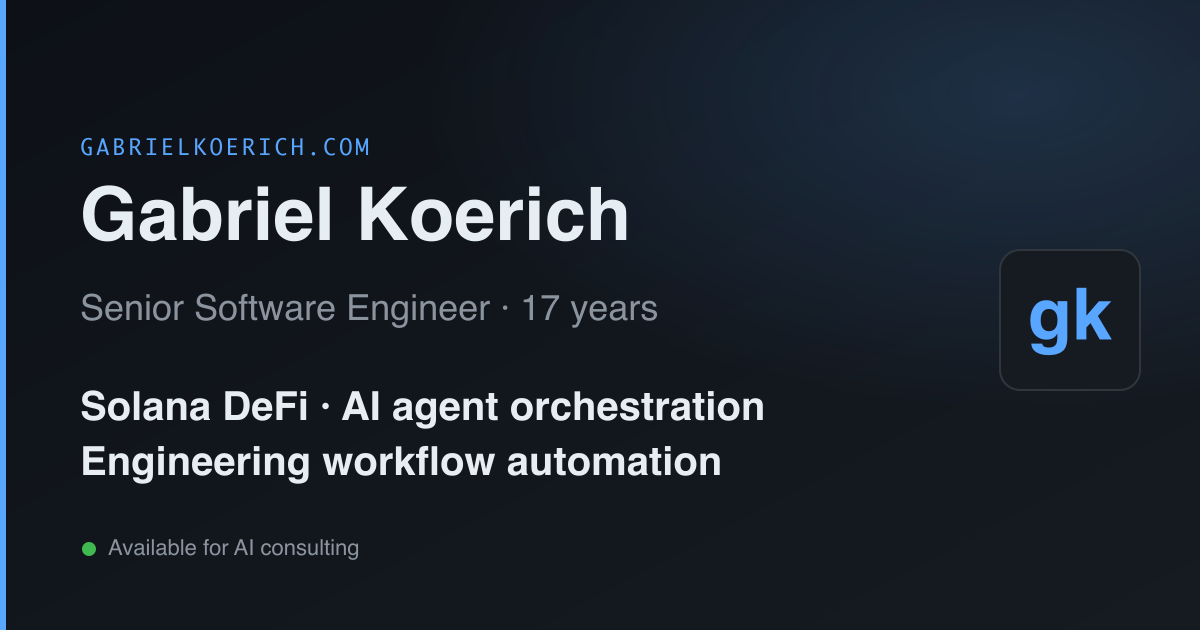
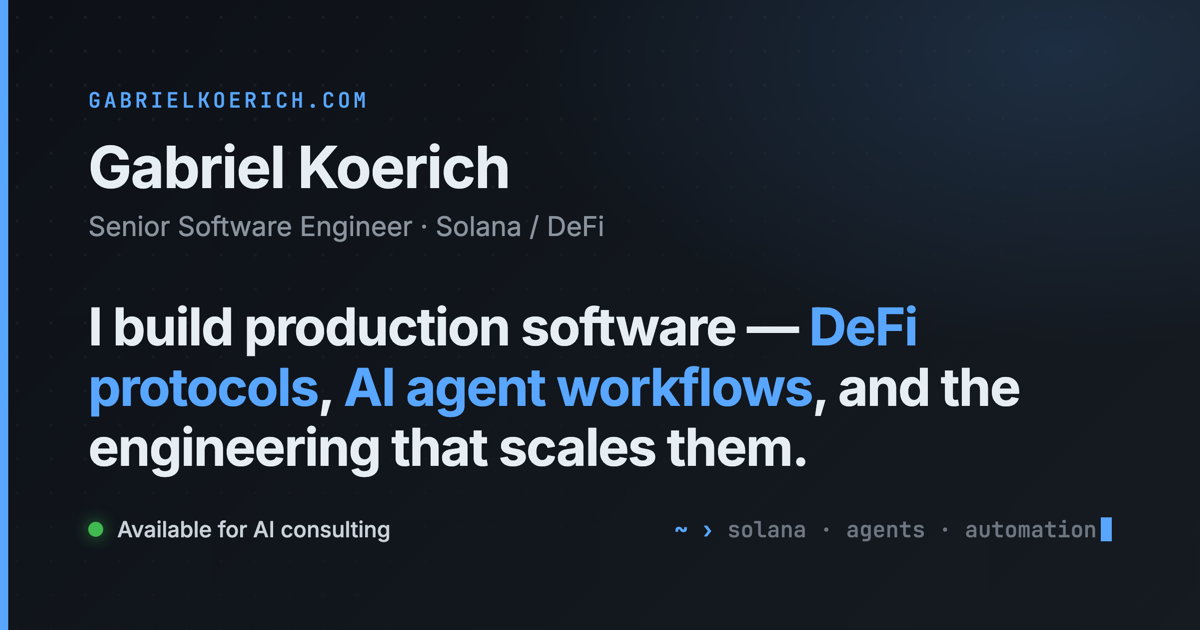
Update site visuals, OG image, and contact info
Switch primary contact email to gabriel@gabrielkoerich.com across site, clear hidden_repos, and add a generated OG HTML image (scripts/og-image.html). Remove SVG favicon/OG assets and replace with updated PNG. Refresh typography and layout in sass/main.scss (add display font, dot-grid backdrop, container width, heading/hero/font tweaks, spacing and footer alignment). Content updates: add Quant stack and family/off-screen notes (now.md, index.html) and update contact lines in profile and CV files. Minor template tweaks: update Google Fonts include and comment out a footer promo link.

diff --git a/sass/main.scss b/sass/main.scss
@@ -7,6 +7,7 @@
     --accent-color: #58a6ff;
     --border-color: #30363d;
     --font-main: 'Inter', -apple-system, BlinkMacSystemFont, 'Segoe UI', Roboto, sans-serif;
+    --font-display: 'Fraunces', 'Source Serif Pro', Georgia, serif;
     --font-serif: 'Source Serif Pro', Georgia, Cambria, "Times New Roman", Times, serif;
     --font-mono: 'SF Mono', Monaco, 'Cascadia Code', 'Roboto Mono', Consolas, 'Courier New', monospace;
 }
@@ -33,17 +34,32 @@ body {
     -moz-osx-font-smoothing: grayscale;
 }
 
+/* Atmospheric backdrop: faint dot-grid + top accent glow */
+body::before {
+    content: "";
+    position: fixed;
+    inset: 0;
+    z-index: -1;
+    pointer-events: none;
+    background:
+        radial-gradient(800px 420px at 80% -8%, rgba(88, 166, 255, 0.10), transparent 60%),
+        radial-gradient(rgba(139, 148, 158, 0.06) 1px, transparent 1px);
+    background-size: auto, 32px 32px;
+}
+
 /* Container - Medium-inspired width */
 #container {
-    max-width: 800px;
+    max-width: 880px;
     margin: 0 auto;
     padding: 4rem 2rem;
 }
 
 /* Typography */
 h1, h2, h3, h4, h5, h6 {
+    font-family: var(--font-display);
     font-weight: 600;
     line-height: 1.3;
+    letter-spacing: -0.01em;
     margin: 2rem 0 1rem;
     color: var(--text-color);
 }
@@ -56,8 +72,6 @@ h1 {
 h2 {
     font-size: 1.35rem;
     margin-top: 3rem;
-    padding-bottom: 0.5rem;
-    border-bottom: 1px solid var(--border-color);
 }
 
 .section-heading-inline {
@@ -65,9 +79,7 @@ h2 {
     align-items: baseline;
     justify-content: space-between;
     gap: 1rem;
-    border-bottom: 1px solid var(--border-color);
     margin-top: 3rem;
-    padding-bottom: 0.5rem;
 }
 
 .section-heading-inline h2 {
@@ -188,9 +200,8 @@ header h1 a:hover {
 
 /* Homepage hero */
 #hero {
-    margin: 1rem 0 3.5rem;
-    padding: 0 0 2.5rem;
-    border-bottom: 1px solid var(--border-color);
+    margin: 1rem 0 3rem;
+    padding: 0;
 }
 
 #hero .hero-eyebrow {
@@ -203,10 +214,12 @@ header h1 a:hover {
 }
 
 .hero-title {
-    font-size: 2.25rem;
+    font-family: var(--font-display);
+    font-size: 2rem;
     line-height: 1.2;
     margin: 0 0 1.5rem;
-    font-weight: 700;
+    font-weight: 600;
+    letter-spacing: -0.015em;
     color: var(--text-color);
 }
 
@@ -224,6 +237,7 @@ header h1 a:hover {
 .hero-cta-row {
     display: flex;
     align-items: center;
+    justify-content: center;
     gap: 1rem;
     flex-wrap: wrap;
 }
@@ -273,7 +287,7 @@ header h1 a:hover {
 
 /* Available-for-consulting footer CTA */
 .footer-cta {
-    margin: 4rem 0 0;
+    margin: 3rem 0 0;
     padding: 1.1rem 1.5rem;
     background: linear-gradient(90deg, rgba(88, 166, 255, 0.07), rgba(88, 166, 255, 0.02));
     border: 1px solid rgba(88, 166, 255, 0.25);
@@ -521,7 +535,7 @@ li {
 .content hr {
     border: none;
     border-top: 1px solid var(--border-color);
-    margin: 3rem 0;
+    margin: 1rem 0;
 }
 
 /* "Originally published" footer */
@@ -573,11 +587,12 @@ article h1 {
 
 /* Footer */
 #page-footer {
-    margin-top: 4rem;
-    padding-top: 2rem;
+    margin-top: 3rem;
+    padding-top: 1rem;
     border-top: 1px solid var(--border-color);
     font-size: 0.9rem;
     color: var(--text-secondary);
+    text-align: right;
 }
 
 #page-footer a {
@@ -689,7 +704,9 @@ article h1 {
 }
 
 .repo-item h3 {
-    font-size: 1rem;
+    font-family: var(--font-mono);
+    font-size: 0.95rem;
+    letter-spacing: -0.01em;
     margin: 0 0 0.5rem;
 }
 

diff --git a/scripts/og-image.html b/scripts/og-image.html
@@ -1,0 +1,67 @@
+<!doctype html>
+<html lang="en">
+<head>
+<meta charset="utf-8">
+<link rel="preconnect" href="https://fonts.googleapis.com">
+<link rel="preconnect" href="https://fonts.gstatic.com" crossorigin>
+<link href="https://fonts.googleapis.com/css2?family=Inter:wght@400;500;600;700;800&family=JetBrains+Mono:wght@500;700&display=swap" rel="stylesheet">
+<style>
+  * { margin:0; padding:0; box-sizing:border-box; }
+  html,body { width:1200px; height:630px; }
+  body {
+    font-family:'Inter',sans-serif;
+    background:
+      radial-gradient(900px 500px at 88% 8%, rgba(88,166,255,.16), transparent 60%),
+      linear-gradient(135deg,#0d1117 0%,#161b22 100%);
+    color:#e6edf3;
+    position:relative;
+    overflow:hidden;
+  }
+  /* dot grid */
+  .grid {
+    position:absolute; inset:0;
+    background-image:radial-gradient(rgba(139,148,158,.10) 1.5px, transparent 1.5px);
+    background-size:34px 34px;
+    mask-image:linear-gradient(to bottom right, black, transparent 70%);
+    -webkit-mask-image:linear-gradient(to bottom right, black, transparent 70%);
+  }
+  .accent { position:absolute; left:0; top:0; bottom:0; width:8px; background:#58a6ff; }
+  .wrap { position:absolute; inset:0; padding:86px 88px; display:flex; flex-direction:column; }
+  .eyebrow {
+    font-family:'JetBrains Mono',monospace; font-weight:500; font-size:21px;
+    letter-spacing:3px; color:#58a6ff; text-transform:uppercase;
+  }
+  .name { font-weight:700; font-size:58px; letter-spacing:-1px; margin-top:18px; }
+  .sub { font-weight:400; font-size:27px; color:#8b949e; margin-top:8px; }
+  .headline {
+    font-weight:700; font-size:52px; line-height:1.16; letter-spacing:-1.2px;
+    margin-top:54px; max-width:1010px;
+  }
+  .headline .hl { color:#58a6ff; }
+  .spacer { flex:1; }
+  .bottom { display:flex; align-items:center; justify-content:space-between; }
+  .badge { display:flex; align-items:center; gap:14px; font-size:22px; font-weight:500; color:#c9d1d9; }
+  .dot { width:15px; height:15px; border-radius:50%; background:#3fb950; box-shadow:0 0 16px rgba(63,185,80,.7); }
+  .prompt {
+    font-family:'JetBrains Mono',monospace; font-size:22px; font-weight:500; color:#6e7681;
+  }
+  .prompt .chev { color:#58a6ff; font-weight:700; }
+  .cursor { display:inline-block; width:11px; height:24px; background:#58a6ff; vertical-align:-4px; margin-left:4px; }
+</style>
+</head>
+<body>
+  <div class="grid"></div>
+  <div class="accent"></div>
+  <div class="wrap">
+    <div class="eyebrow">gabrielkoerich.com</div>
+    <div class="name">Gabriel Koerich</div>
+    <div class="sub">Senior Software Engineer · Solana / DeFi</div>
+    <div class="headline">I build production software &mdash; <span class="hl">DeFi protocols</span>, <span class="hl">AI agent workflows</span>, and the engineering that scales them.</div>
+    <div class="spacer"></div>
+    <div class="bottom">
+      <div class="badge"><span class="dot"></span> Available for AI consulting</div>
+      <div class="prompt"><span class="chev">~ &rsaquo;</span> solana · agents · automation<span class="cursor"></span></div>
+    </div>
+  </div>
+</body>
+</html>

diff --git a/templates/base.html b/templates/base.html
@@ -26,7 +26,6 @@
     {% endif %}
 
     <link rel="canonical" href="{{current_url | safe}}">
-    <link rel="icon" type="image/svg+xml" href="{{get_url(path='favicon.svg')}}">
     {% if config.generate_feeds %}
     <link rel="alternate" type="application/rss+xml" title="{{config.title}}" href="{{get_url(path='rss.xml')}}">
     {% endif %}
@@ -34,7 +33,7 @@
     <link rel="stylesheet" href="{{get_url(path='main.css')}}">
     <link rel="preconnect" href="https://fonts.googleapis.com">
     <link rel="preconnect" href="https://fonts.gstatic.com" crossorigin>
-    <link href="https://fonts.googleapis.com/css2?family=Inter:wght@400;500;600;700&family=Source+Serif+Pro:ital,wght@0,400;0,600;0,700;1,400&display=swap" rel="stylesheet">
+    <link href="https://fonts.googleapis.com/css2?family=Fraunces:opsz,wght@9..144,500;9..144,600;9..144,700&family=Inter:wght@400;500;600;700&family=Source+Serif+Pro:ital,wght@0,400;1,400&display=swap" rel="stylesheet">
 </head>
 <body>
     <div id="container">
@@ -92,9 +91,9 @@
                 </a>
                 {% endif %}
             </p>
-            <p class="footer-extra">
+            {# <p class="footer-extra">
                 <a href="https://app.hyperliquid.xyz/join/NAKED" target="_blank" rel="noopener">Trade Perps</a>
-            </p>
+            </p> #}
         </footer>
     </div>
 </body>

diff --git a/templates/index.html b/templates/index.html
@@ -48,6 +48,11 @@
             (Rust, Anchor), EVM protocols, DeFi integrations, security &amp; audits.
         </li>
         <li>
+            <strong>Quant &amp; Systematic Trading</strong> — Building a personal
+            quant stack: backtesting, factor models, risk &amp; portfolio
+            construction, and live execution on Hyperliquid perps (Nautilus).
+        </li>
+        <li>
             <strong>Lulo</strong> — DeFi protocol with dual-pool security
             system, protecting +$100M in user funds.
         </li>

diff --git a/content/cv.md b/content/cv.md
@@ -11,7 +11,7 @@ Equally comfortable in traditional backend, blockchain engineering (Rust/Solana,
 
 **Open to:** Senior/Staff roles in AI infrastructure, DeFi, or fintech. Also available for [AI consulting](/consulting/) (strategy, implementation, training, fractional).
 
-<svg xmlns="http://www.w3.org/2000/svg" width="16" height="16" viewBox="0 0 24 24" fill="none" stroke="currentColor" stroke-width="2" stroke-linecap="round" stroke-linejoin="round" style="vertical-align: middle; margin-right: 8px;"><rect x="2" y="4" width="20" height="16" rx="2"></rect><path d="m22 7-8.97 5.7a1.94 1.94 0 0 1-2.06 0L2 7"></path></svg> [gabrielmk@gmail.com](mailto:gabrielmk@gmail.com)  
+<svg xmlns="http://www.w3.org/2000/svg" width="16" height="16" viewBox="0 0 24 24" fill="none" stroke="currentColor" stroke-width="2" stroke-linecap="round" stroke-linejoin="round" style="vertical-align: middle; margin-right: 8px;"><rect x="2" y="4" width="20" height="16" rx="2"></rect><path d="m22 7-8.97 5.7a1.94 1.94 0 0 1-2.06 0L2 7"></path></svg> [gabriel@gabrielkoerich.com](mailto:gabriel@gabrielkoerich.com)  
 <svg xmlns="http://www.w3.org/2000/svg" width="16" height="16" viewBox="0 0 24 24" fill="none" stroke="currentColor" stroke-width="2" stroke-linecap="round" stroke-linejoin="round" style="vertical-align: middle; margin-right: 8px;"><path d="M15 22v-4a4.8 4.8 0 0 0-1-3.5c3 0 6-2 6-5.5.08-1.25-.27-2.48-1-3.5.28-1.15.28-2.35 0-3.5 0 0-1 0-3 1.5-2.64-.5-5.36-.5-8 0C6 2 5 2 5 2c-.3 1.15-.3 2.35 0 3.5A5.403 5.403 0 0 0 4 9c0 3.5 3 5.5 6 5.5-.39.49-.68 1.05-.85 1.65-.17.6-.22 1.23-.15 1.85v4"></path><path d="M9 18c-4.51 2-5-2-7-2"></path></svg> [github.com/gabrielkoerich](https://github.com/gabrielkoerich)  
 <svg xmlns="http://www.w3.org/2000/svg" width="16" height="16" viewBox="0 0 24 24" fill="none" stroke="currentColor" stroke-width="2" stroke-linecap="round" stroke-linejoin="round" style="vertical-align: middle; margin-right: 8px;"><path d="M16 8a6 6 0 0 1 6 6v7h-4v-7a2 2 0 0 0-2-2 2 2 0 0 0-2 2v7h-4v-7a6 6 0 0 1 6-6z"></path><rect x="2" y="9" width="4" height="12"></rect><circle cx="4" cy="4" r="2"></circle></svg> [linkedin.com/in/gabrielkoerich](https://linkedin.com/in/gabrielkoerich) 
 

diff --git a/content/cv-summary.md b/content/cv-summary.md
@@ -6,7 +6,7 @@ title = ""
 
 Senior software engineer and entrepreneur with 13+ years of professional experience (17+ including self-taught freelance since age 13). Founded Bulldesk (acquired 2021), a Marketing Automation + CRM platform. Currently architecting Solana DeFi at Lulo (+$100M TVL); also focused on AI / agent orchestration (Claude Code, Codex, OpenCode in production workflows). BBA in Finance. **Open to:** Senior/Staff AI, DeFi, or fintech roles. Available for [AI consulting](/consulting/).
 
-[gabrielmk@gmail.com](mailto:gabrielmk@gmail.com) | [github.com/gabrielkoerich](https://github.com/gabrielkoerich) | [linkedin.com/in/gabrielkoerich](https://linkedin.com/in/gabrielkoerich)
+[gabriel@gabrielkoerich.com](mailto:gabriel@gabrielkoerich.com) | [github.com/gabrielkoerich](https://github.com/gabrielkoerich) | [linkedin.com/in/gabrielkoerich](https://linkedin.com/in/gabrielkoerich)
 
 ## Core Competencies
 

diff --git a/content/now.md b/content/now.md
@@ -14,12 +14,14 @@ A [/now page](https://nownownow.com/about) — what I'm focused on this month.
 
 ## Building & learning
 
+- **Quant stack** — Building a personal systematic-trading system: backtesting, factor models, risk &amp; portfolio construction, and live execution on Hyperliquid perps (Nautilus).
 - Writing more — see [posts](/posts/) for what's coming.
 - Sharpening Rust async / Tokio patterns for high-throughput indexers.
 - Experimenting with eval frameworks for AI agent reliability.
 
 ## Off-screen
 
+- Family time — most of my off-screen hours go to my wife and daughter.
 - Reading: value investing classics (Graham, Buffett letters).
 - Finance discipline: Beancount + automated reports for personal accounting.
 - Slowing down on Twitter, more long-form thinking.

diff --git a/profile.md b/profile.md
@@ -11,7 +11,7 @@ A technical, productivity-focused entrepreneur and software engineer with more t
 #### Languages: Portugues, English
 
 ## Contact
-- [gabrielmk@gmail.com](mailto:gabrielmk@gmail.com)
+- [gabriel@gabrielkoerich.com](mailto:gabriel@gabrielkoerich.com)
 - [linkedin.com/in/gabrielkoerich](https://www.linkedin.com/in/gabrielkoerich)
 - [github.com/gabrielkoerich](https://github.com/gabrielkoerich)
 
